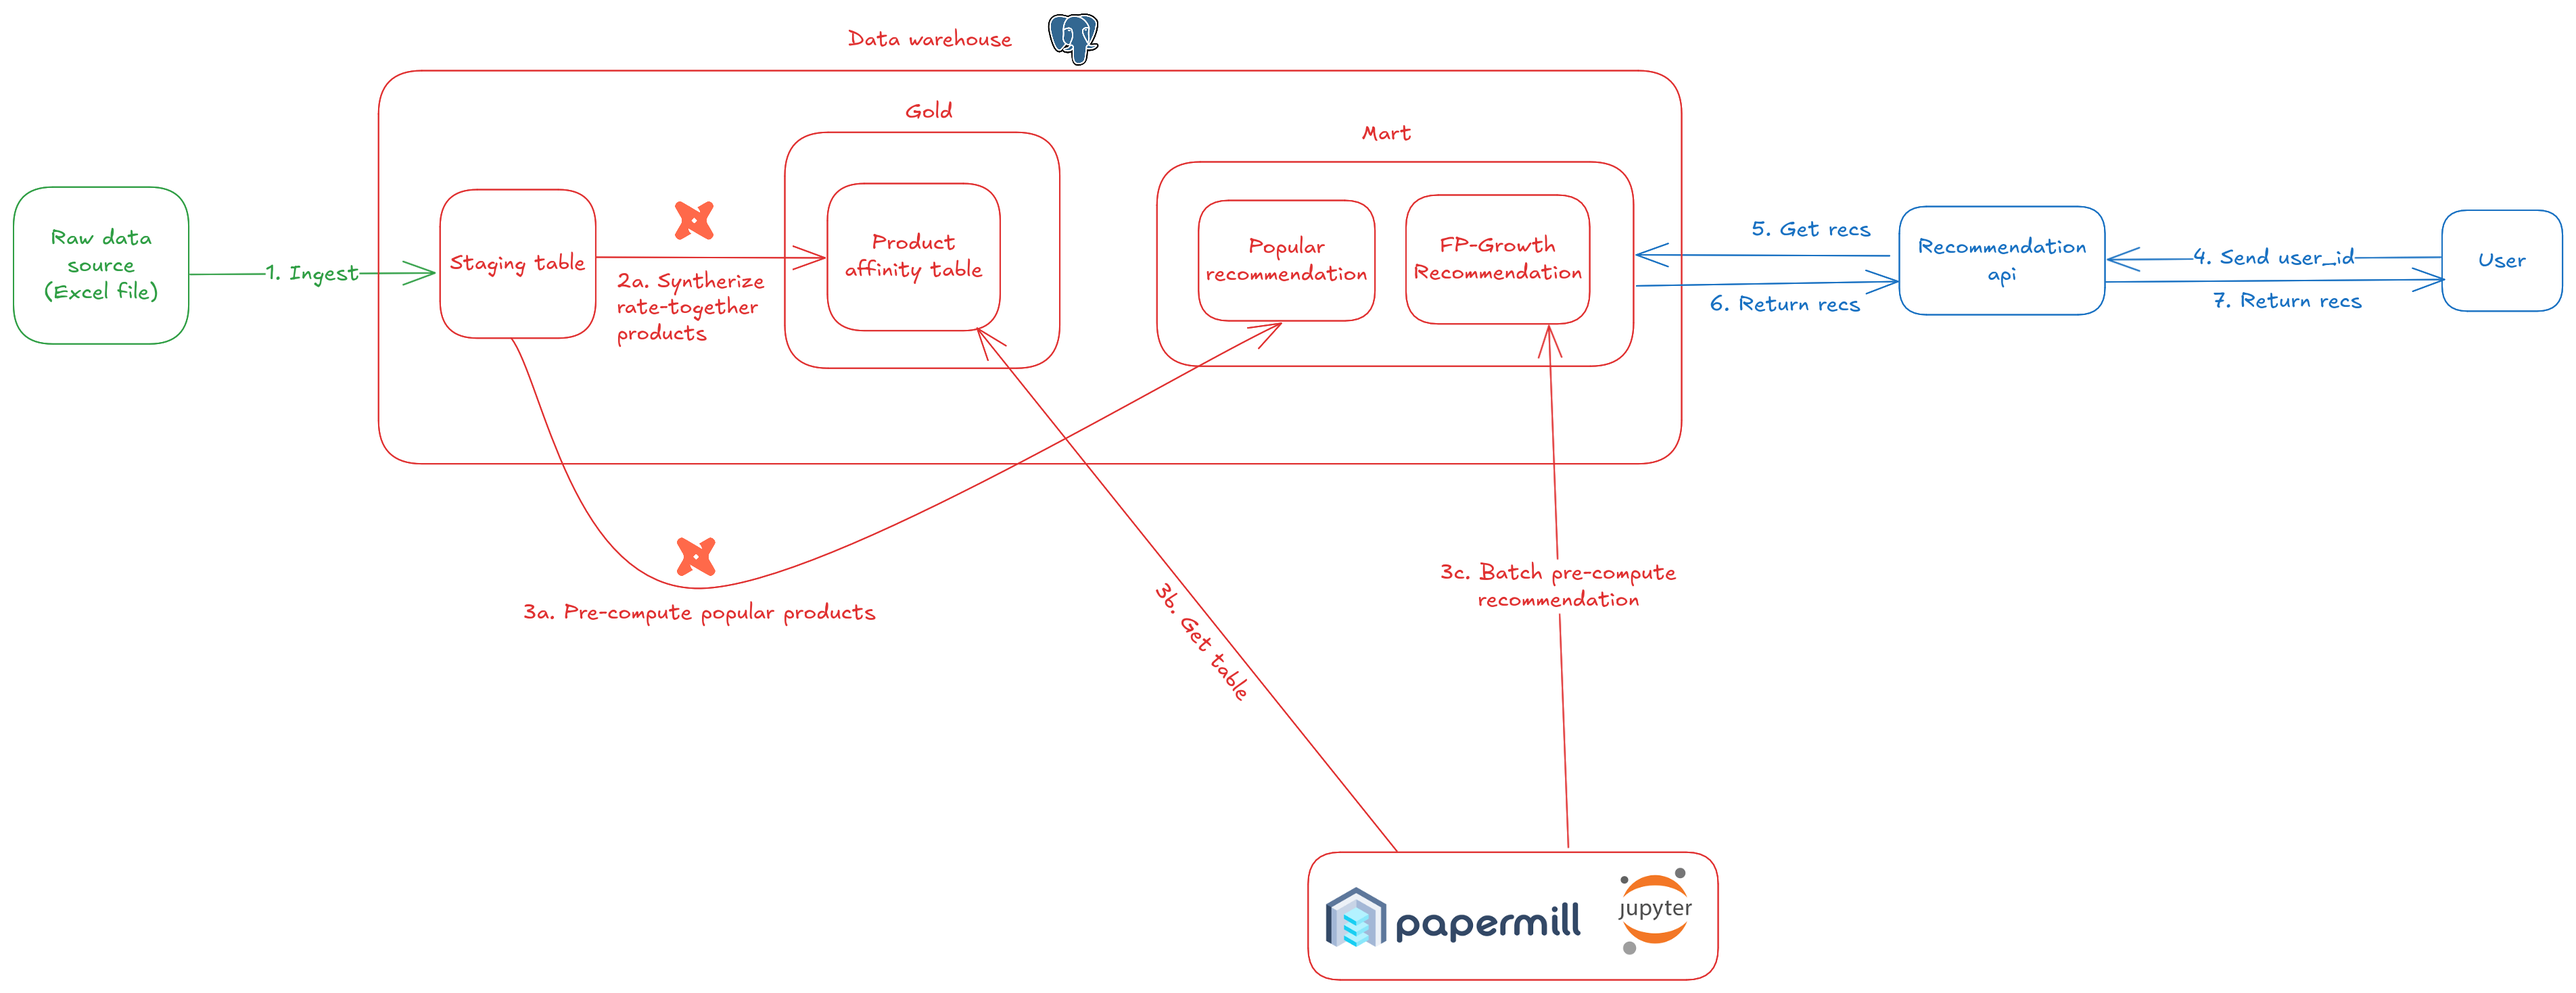
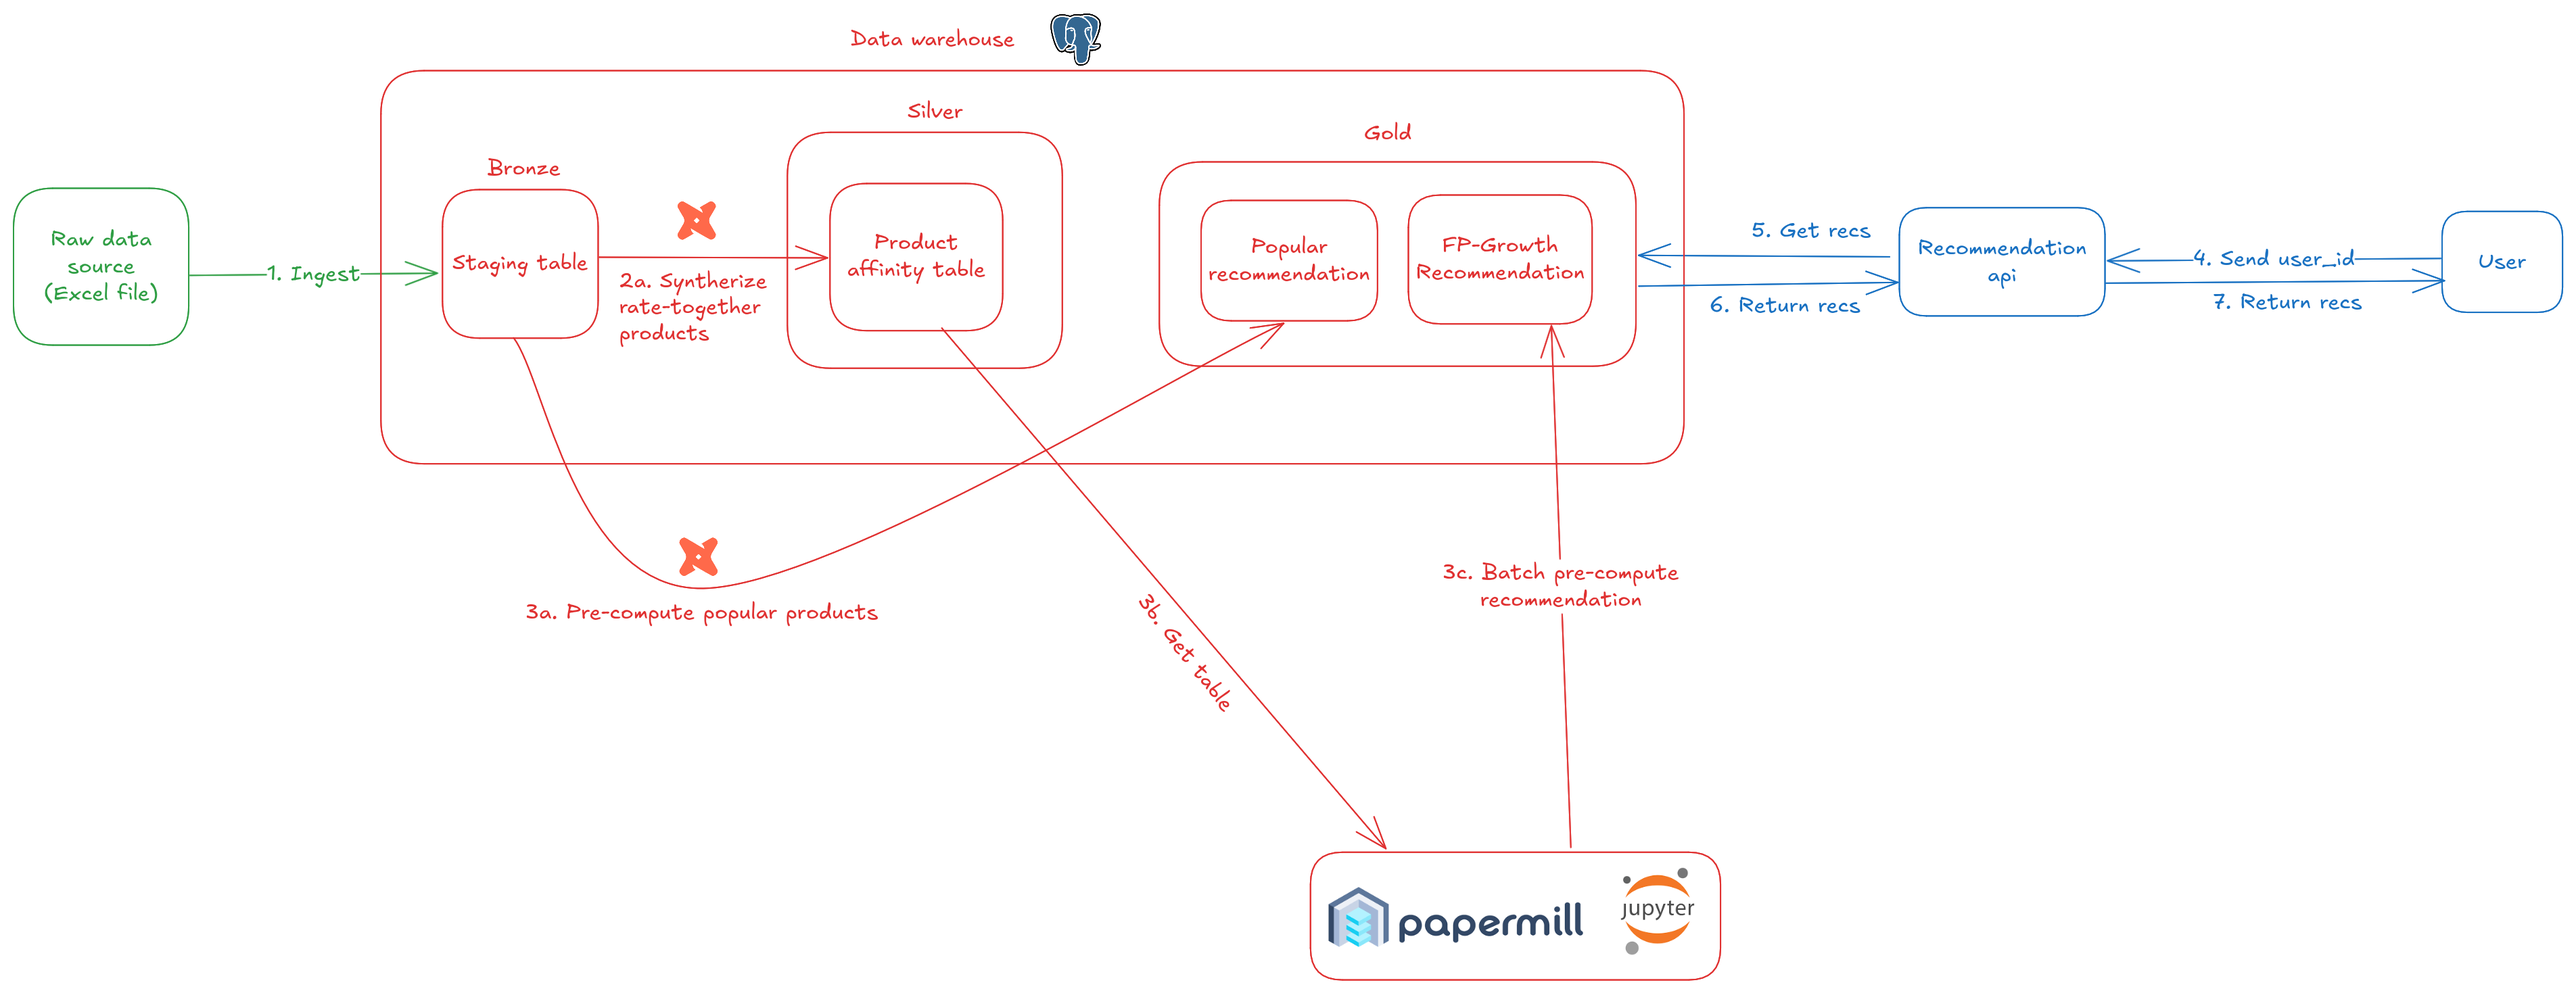
docs: update rm

diff --git a/README.md b/README.md
@@ -11,19 +11,19 @@ This architecture illustrates a batch-driven recommendation workflow from raw da
 **Data Ingestion and Staging**
 Raw product interaction data arrives as Excel files and is first ingested into a staging table inside the data warehouse. This layer provides a clean, consistent source for downstream processing.
 
-**Gold Layer – Core Feature Tables**
-From the staging area, curated datasets are created, such as a product-affinity table capturing "bought-together" relationships. These gold tables serve as the foundation for building recommendation models and analytics.
+**Silver Layer – Feature Tables**
+From the staging area, curated datasets are created, such as a product-affinity table capturing "bought-together" relationships. These silver tables serve as the foundation for building recommendation models and analytics.
 
-**Mart Layer – Pre-Computed Recommendations**
-Using the gold data, two main types of pre-computed outputs are produced:
+**Gold Layer – Pre-Computed Recommendations**
+Using the silver combined with bronze data, two main types of pre-computed outputs are produced:
 
 - Popular recommendations (e.g., most frequently purchased items)
 - FP-Growth association recommendations (frequent-pattern mining results)
 
-Batch jobs populate these marts on a schedule so that recommendations are always ready for fast retrieval.
+Batch jobs populate these gold tables on a schedule so that recommendations are always ready for fast retrieval.
 
 **Recommendation API and User Interaction**
-When a user requests suggestions, the Recommendation API queries the mart tables to fetch the latest pre-computed results and returns personalized or popular recommendations back to the user in real time.
+When a user requests suggestions, the Recommendation API queries the gold tables to fetch the latest pre-computed results and returns personalized or popular recommendations back to the user in real time.
 
 
 ## Prerequisites
